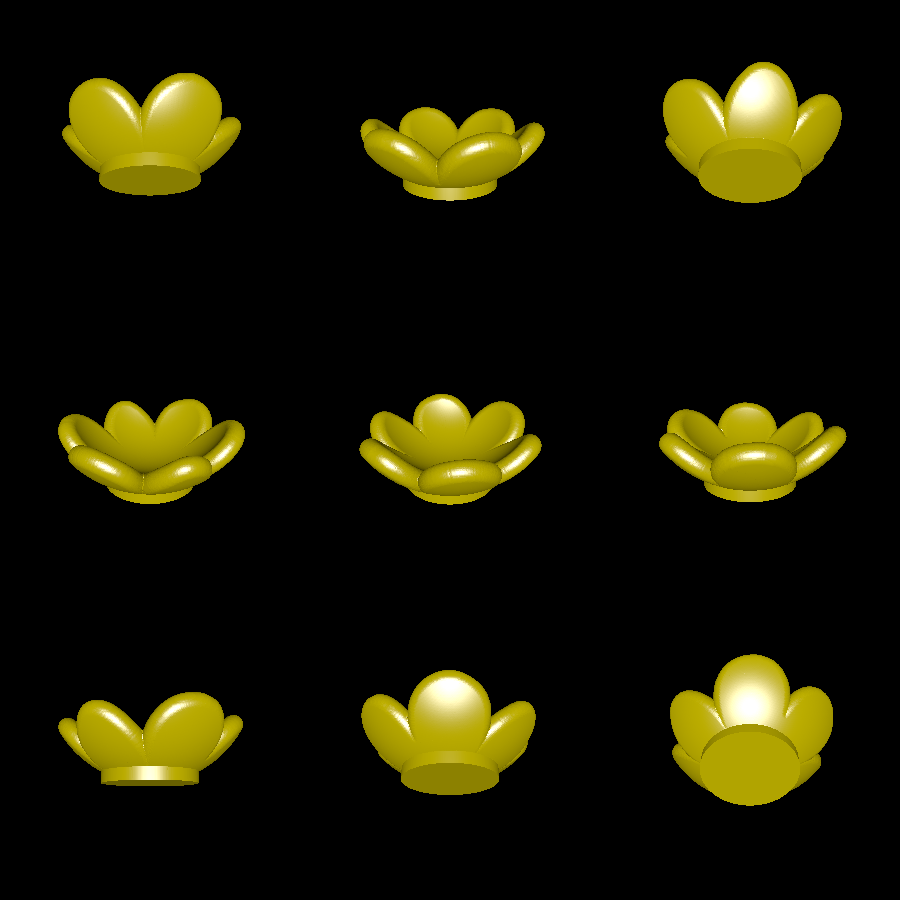
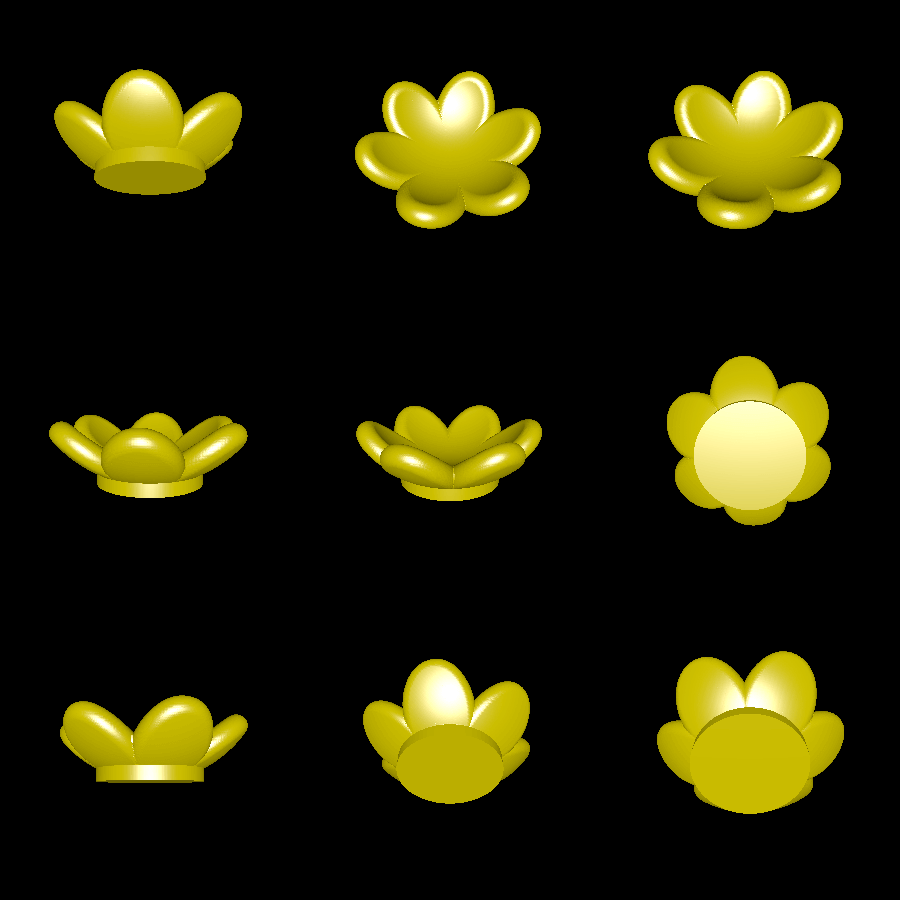
wall_flower: polar shape; projection; new README

diff --git a/examples/decoration/wall_flower/main.go b/examples/decoration/wall_flower/main.go
@@ -11,9 +11,16 @@ import (
 )
 
 const (
-	Radius        = 1.0
-	LengthRadians = 1.0
-	Thickness     = 0.1
+	// Radius of the sphere we project everything onto.
+	Radius = 1.0
+
+	// Radius spanned by the flower itself.
+	PedalLength = 0.8
+
+	// Thickness in every direction of the flower surface.
+	Thickness = 0.1
+
+	// Details of the cylindrical base.
 	BaseThickness = 0.1
 	BaseRadius    = 0.5
 )
@@ -42,17 +49,35 @@ type FlowerShape struct {
 }
 
 func NewFlowerShape() *FlowerShape {
-	bitmap := model2d.MustReadBitmap("shape.png", nil)
-	mesh := bitmap.Mesh().SmoothSq(200)
+	mesh := model2d.NewMesh()
+
+	// Polar coordinate flower shape.
+	flowerPoint := func(i int) model2d.Coord {
+		i = i % 10000
+		theta := (float64(i) / 9999.0) * math.Pi * 2
+		r := 0.3 + 0.7*math.Pow(math.Abs(math.Cos(3*theta)), 0.5)
+		return model2d.XY(math.Cos(theta), math.Sin(theta)).Scale(r)
+	}
+	for i := 0; i < 10000; i++ {
+		mesh.Add(&model2d.Segment{flowerPoint(i), flowerPoint(i + 1)})
+	}
+
+	sphere := &model3d.Sphere{Radius: Radius}
 	mesh = mesh.MapCoords(func(c model2d.Coord) model2d.Coord {
-		c.X /= float64(bitmap.Width)
-		c.Y /= float64(bitmap.Height)
-		c = c.Scale(2 * LengthRadians).AddScalar(-LengthRadians)
-		// The Y value is longitude, and it spans the sphere more
-		// quickly when latitude (X value) is further frome zero.
-		c.Y /= math.Cos(c.X)
-		return c
+		c = c.Scale(PedalLength)
+
+		// Project the point onto a sphere to get the geo coords.
+		ray := &model3d.Ray{
+			Origin:    model3d.XYZ(c.X, c.Y, Radius),
+			Direction: model3d.Z(-1),
+		}
+		rc, _ := sphere.FirstRayCollision(ray)
+		rcPoint := ray.Origin.Add(ray.Direction.Scale(rc.Scale))
+		geoPoint := rcPoint.Geo()
+
+		return model2d.XY(geoPoint.Lat, geoPoint.Lon)
 	})
+
 	return &FlowerShape{
 		Projection: model2d.MeshToSDF(mesh),
 		// Fairly loose bounds, since the exact bounds are

diff --git a/examples/decoration/wall_flower/README.md b/examples/decoration/wall_flower/README.md
@@ -1,6 +1,16 @@
 # wall-flower
 
-This is a flower decoration that you can print out in batches and attach to your walls. It is generated by wrapping a flower shape (defined by [shape.png](shape.png)) around the bottom of a sphere, and then thickening the shape using a `model3d.Collider`.
+This is a flower decoration that you can print out in batches and attach to your walls.
+
+# How it works
+
+The model is generated by first constructing the six-pedal flower in 2D polar coordinates. This looks like this:
+
+<img src="rendering_shape.svg" width="200" alt="vector flower shape">
+
+To turn this 2D shape into a 3D object, it is projected onto the bottom of a sphere, causing it to be rounded with the pedals sticking up. Finally, this flat shape is made thick by extending it 0.1 inches in every direction.
+
+In other words, to tell if a point `C` is within the flower, it is first projected onto the sphere, and then further projected onto the flower shape that was projected onto the sphere. This gives a point `P`. If `||C - P|| < 0.1`, then C is within the flower.
 
 # Renderings
 
